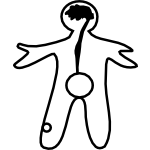
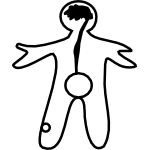
Creature animations.

Changed region(s): [[0.08, 0.0, 0.9333, 1.0], [0.5067, 0.1333, 0.5333, 0.16]]

diff --git a/src/com/zarkonnen/PatentBlaster.java b/src/com/zarkonnen/PatentBlaster.java
@@ -59,6 +59,9 @@ public class PatentBlaster implements Game {
 	public static final Fount SMOUNT = new Fount("Courier12", 10, 15, 7, 15, ALPHABET);
 	public static final String[] IMG_NAMES = {"boxer", "bat", "bear", "elephant", "thing", "mummy", "tongue", "eye", "brain", "robot", "head", "duck", "empty_bear", "screenhead", "crawler", "shrugger", "stick_demon", "smiler"};
 	public static final String[] PRETTY_IMG_NAMES = {"Boxer", "Bat", "Bear", "Elephant", "Brain-Thing", "Mummy", "Tongue", "Eye", "Brain", "Robot", "Head", "Duck", "Empty Bear", "Screenhead", "Crawler", "Shrugger", "Stick Demon", "Smiler"};
+	public static final boolean[] ANIM = { true, true, true, false, true, true, false, false, false, false, false, true, true, true, false, false, false, true };
+	public static final int[] ANIM_LENGTH = { 200, 500, 500, 0, 20, 120, 0, 0, 0, 0, 0, 500, 8, 20, 0, 0, 0, 300 };
+	public static final int[] ANIM_B_LENGTH = { 20, 10, 5, 0, 10, 60, 0, 0, 0, 0, 0, 40, 4, 10, 0, 0, 0, 50 };
 	public static final int[] IMG_NUMS = { 4, 1, 3, 3, 3, 1, 2, 0, 1, 4, 2, 0, 5, 3, 0, 0, 0, 0 };
 	public static final double[] IMG_SHOOT_X = { 0.32, 0.44, 0.45, 0.18, 0.56, 0.49, 0.50, 0.20, 0.37, 0.15, 0.50, 0.33, 0.50,
 	0.50, 0.21, 0.50, 0.50, 0.17};

diff --git a/src/com/zarkonnen/Creature.java b/src/com/zarkonnen/Creature.java
@@ -24,6 +24,7 @@ public class Creature extends Entity implements HasDesc {
 	public static final Clr FROZEN_CUBE_CLR = new Clr(100, 110, 200, 120);
 	
 	public int imgIndex;
+	public Img bImg, flippedBImg;
 	public Img flippedImg;
 	public ArrayList<Weapon> weapons = new ArrayList<Weapon>();
 	public ArrayList<Item> items = new ArrayList<Item>();
@@ -306,7 +307,17 @@ public class Creature extends Entity implements HasDesc {
 		double imgH = h / PatentBlaster.IMG_H[imgIndex];
 		double imgX = x + scrollX - imgW / 2 + w / 2;
 		double imgY = y + scrollY - imgH + h;
-		d.blit(flipped ? flippedImg : img, t, imgX, imgY, imgW, imgH, angle);
+		
+		Img theImg = flipped ? flippedImg : img;
+		if (PatentBlaster.ANIM[imgIndex] && (l.tick % PatentBlaster.ANIM_LENGTH[imgIndex] < PatentBlaster.ANIM_B_LENGTH[imgIndex])) {
+			if (bImg == null) {
+				bImg = PatentBlaster.CREATURE_IMGS.get(PatentBlaster.IMG_NAMES[imgIndex] + "_b");
+				flippedBImg = bImg.flip();
+			}
+			theImg = flipped ? flippedBImg : bImg;
+		}
+		
+		d.blit(theImg, t, imgX, imgY, imgW, imgH, angle);
 		
 		for (Shot s : stuckShots) {
 			s.draw(d, l, scrollX + x, scrollY + y);
